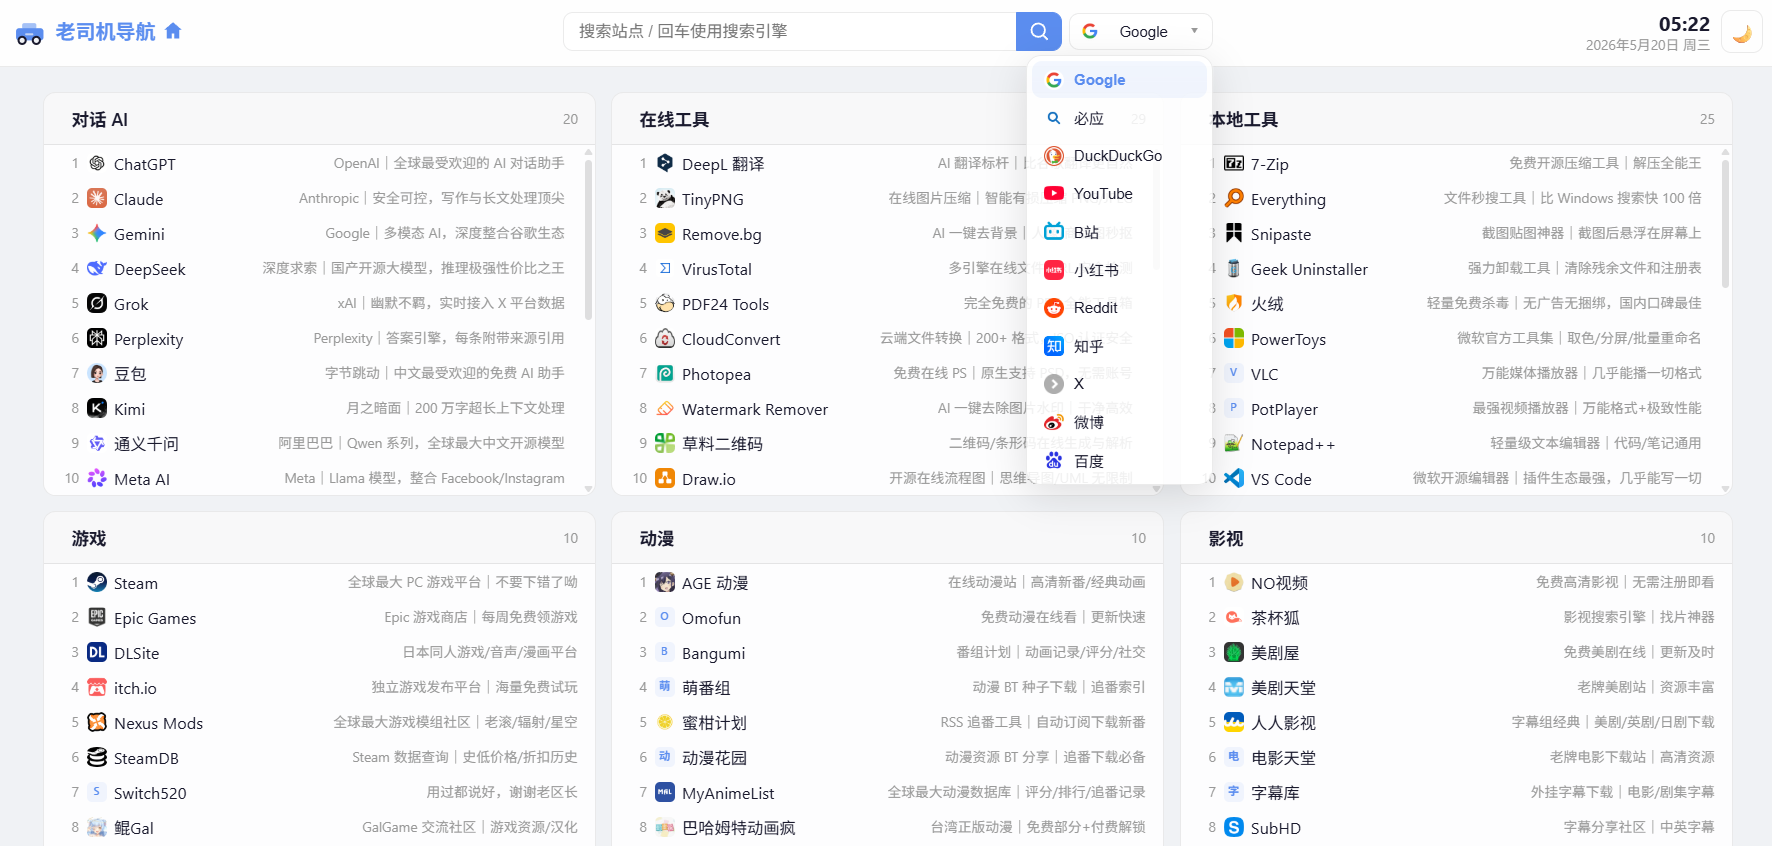
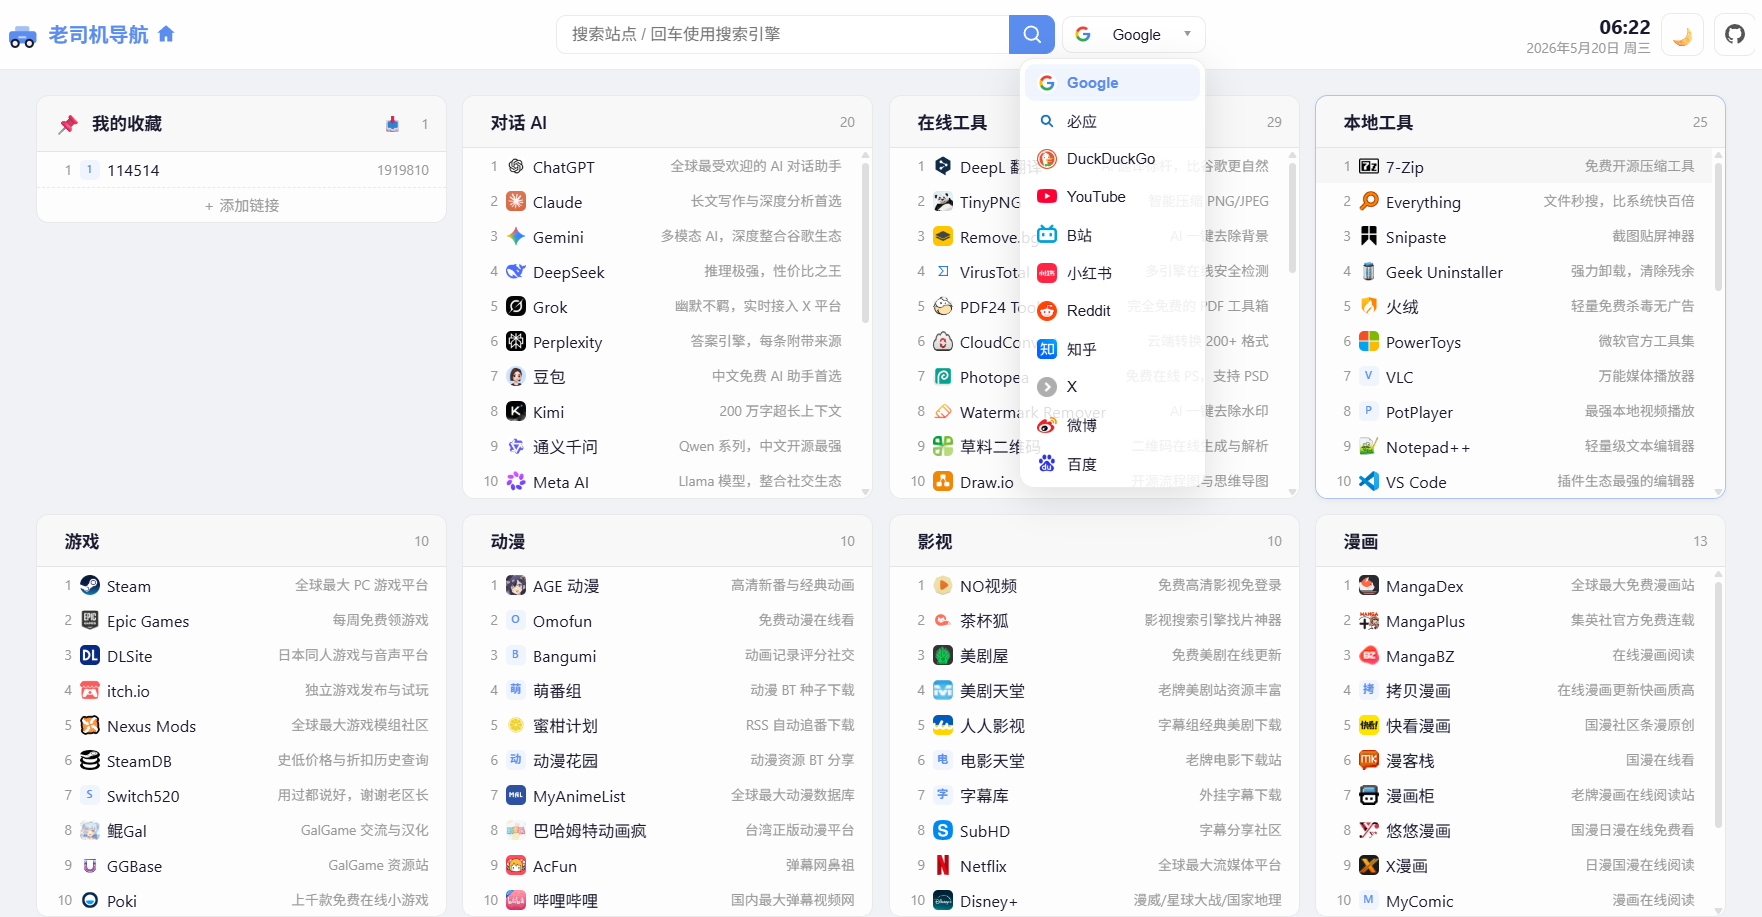
docs: 更新 README 和预览图

diff --git a/README.md b/README.md
@@ -1,6 +1,6 @@
 # 🚗 老司机导航
 
-> 开箱即用的极简美观导航页，支持自定义收藏和导入导出
+> 开箱即用的极简美观导航网站，支持自定义收藏和导入导出
 
 [![License: MIT](https://img.shields.io/badge/License-MIT-yellow.svg)](https://opensource.org/licenses/MIT)
 